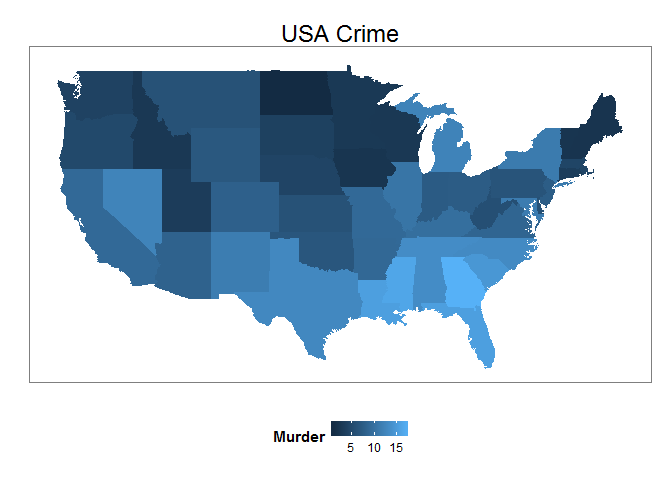
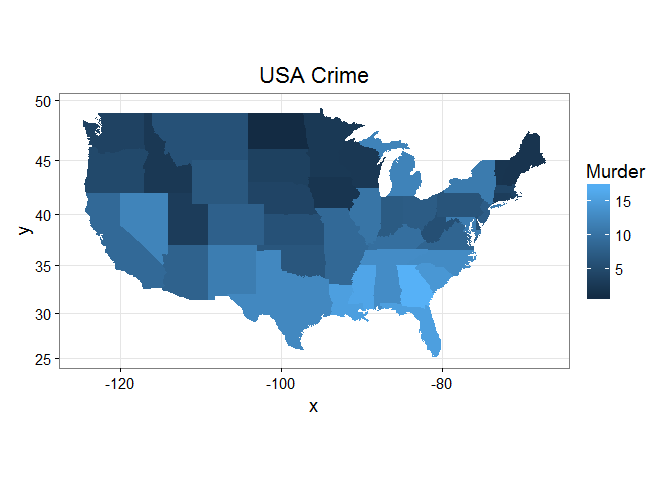
fixing CRAN URLS

diff --git a/README.md b/README.md
@@ -1,4 +1,4 @@
-[![Build Status](https://travis-ci.org/jknowles/eeptools.png?branch=master)](https://travis-ci.org/jknowles/eeptools) [![Coverage Status](https://coveralls.io/repos/jknowles/eeptools/badge.svg?branch=master&service=github)](https://coveralls.io/github/jknowles/eeptools?branch=master) [![CRAN\_Status\_Badge](http://www.r-pkg.org/badges/version/eeptools)](http://cran.r-project.org/package=eeptools) [![Github Issues](http://githubbadges.herokuapp.com/jknowles/eeptools/issues.svg)](https://github.com/jknowles/eeptools/issues) [![Pending Pull-Requests](http://githubbadges.herokuapp.com/jknowles/eeptools/pulls.svg?style=flat)](https://github.com/jknowles/eeptools/pulls) [![Downloads](http://cranlogs.r-pkg.org/badges/eeptools)](http://cran.rstudio.com/package=eeptools)
+[![Build Status](https://travis-ci.org/jknowles/eeptools.png?branch=master)](https://travis-ci.org/jknowles/eeptools) [![Coverage Status](https://coveralls.io/repos/jknowles/eeptools/badge.svg?branch=master&service=github)](https://coveralls.io/github/jknowles/eeptools?branch=master) [![CRAN\_Status\_Badge](http://www.r-pkg.org/badges/version/eeptools)](https://cran.r-project.org/package=eeptools) [![Github Issues](http://githubbadges.herokuapp.com/jknowles/eeptools/issues.svg)](https://github.com/jknowles/eeptools/issues) [![Pending Pull-Requests](http://githubbadges.herokuapp.com/jknowles/eeptools/pulls.svg?style=flat)](https://github.com/jknowles/eeptools/pulls) [![Downloads](https://cranlogs.r-pkg.org/badges/eeptools)](https://cran.r-project.org/web/packages/eeptools/index.html)
 
 <!-- README.md is generated from README.Rmd. Please edit that file -->
 Introduction
@@ -14,6 +14,7 @@ Datasets
 ``` r
 library(eeptools)
 #> Loading required package: ggplot2
+#> Warning: package 'ggplot2' was built under R version 3.2.4
 data("stuatt")
 head(stuatt)
 #>   sid school_year male race_ethnicity birth_date
@@ -187,7 +188,7 @@ statamode(vecB, method = "last")
 #> Levels: A
 vecA <- c(LETTERS[1:10])
 statamode(vecA, method = "sample")
-#> [1] "G"
+#> [1] "D"
 vecB <- c("A", "A", "A", LETTERS[3:10])
 statamode(vecB, method = "stata")
 #> [1] "A"
@@ -206,7 +207,7 @@ Regression Models
 ``` r
 require(MASS)
 #> Loading required package: MASS
-#> Warning: package 'MASS' was built under R version 3.2.2
+#> Warning: package 'MASS' was built under R version 3.2.4
 #Examples of "sim" 
 set.seed (1)
 J <- 15
@@ -248,13 +249,18 @@ The package includes a number of themes for `ggplot2` named `theme_dpi` to refle
 crimes <- data.frame(state = tolower(rownames(USArrests)), USArrests)
 require(reshape) # for melt
 #> Loading required package: reshape
+#> Warning: package 'reshape' was built under R version 3.2.5
 crimesm <- melt(crimes, id = 1)
 states_map <- map_data("state")
+#> Warning: package 'maps' was built under R version 3.2.5
 p1 <- ggplot(crimes, aes(map_id = state)) + geom_map(aes(fill = Murder), 
                                                      linetype = 1, map = states_map) + 
        expand_limits(x = states_map$long, y = states_map$lat) + labs(title="USA Crime")
 p1 <- p1 + coord_map()
 p1 + theme_dpi_map()
+#> Warning: 'theme_dpi_map' is deprecated.
+#> Use 'theme_bw' instead.
+#> See help("Deprecated")
 ```
 
 ![](readmeplot/README-map-1.png)
